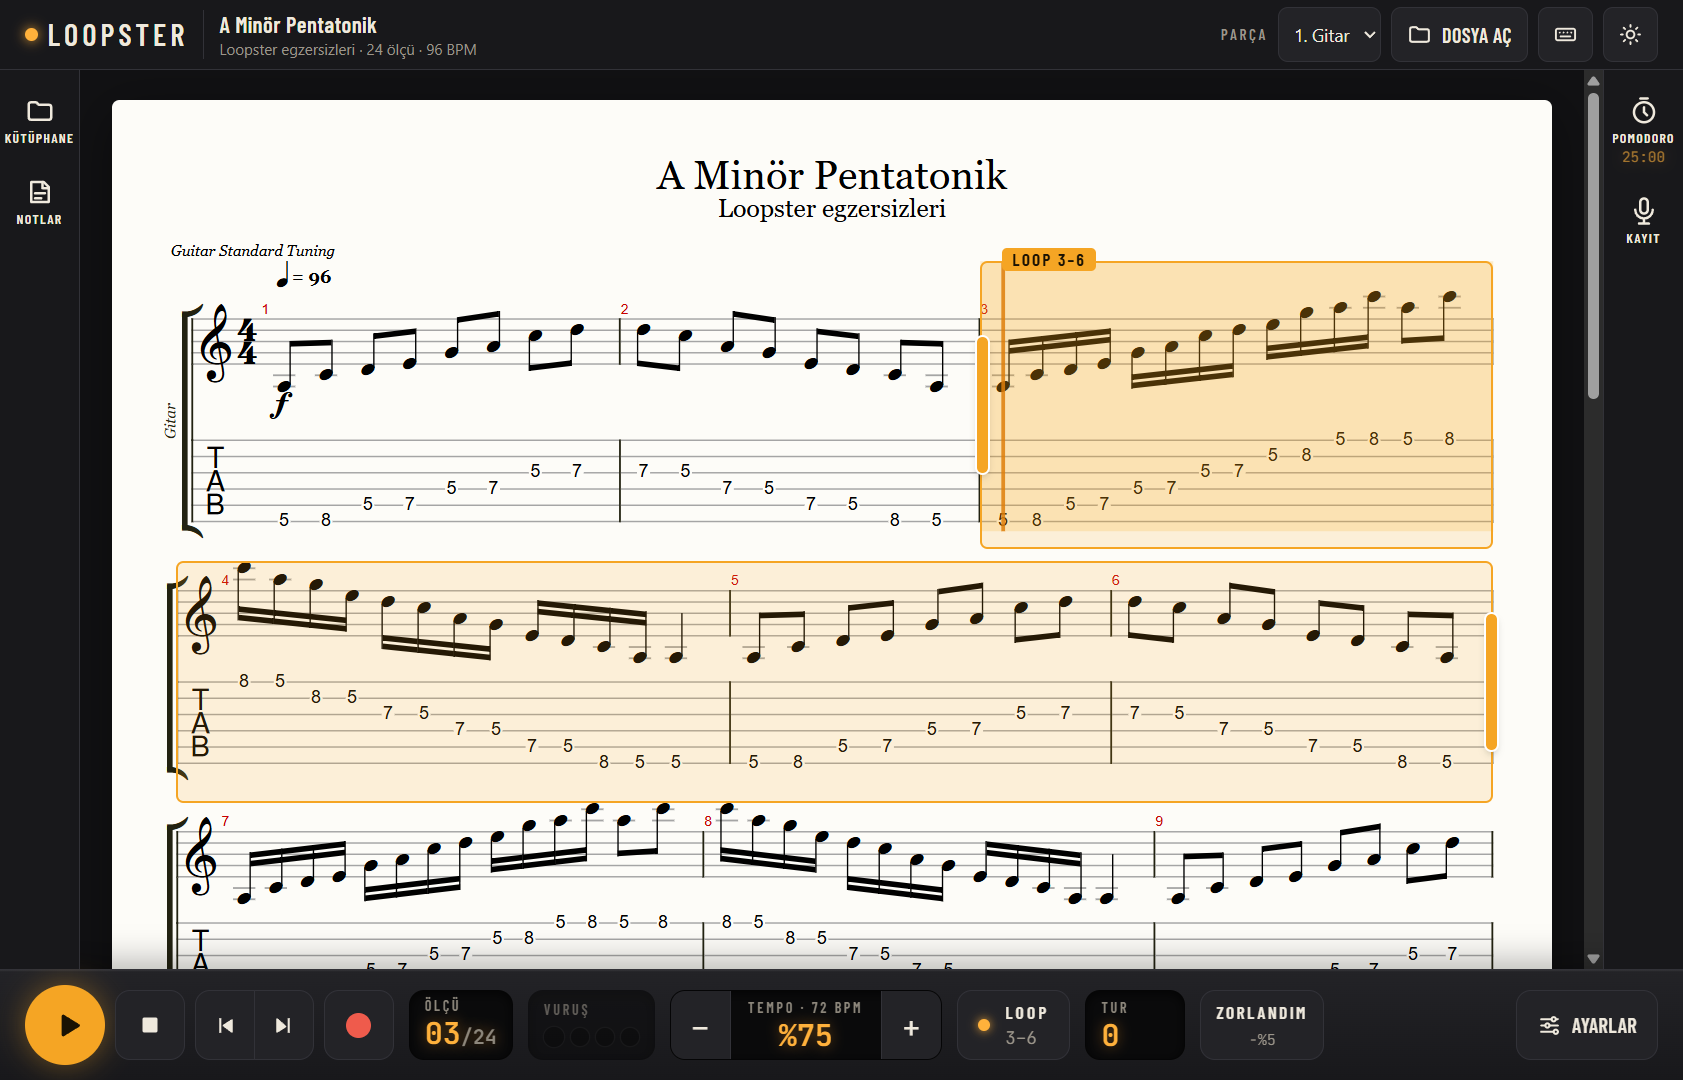
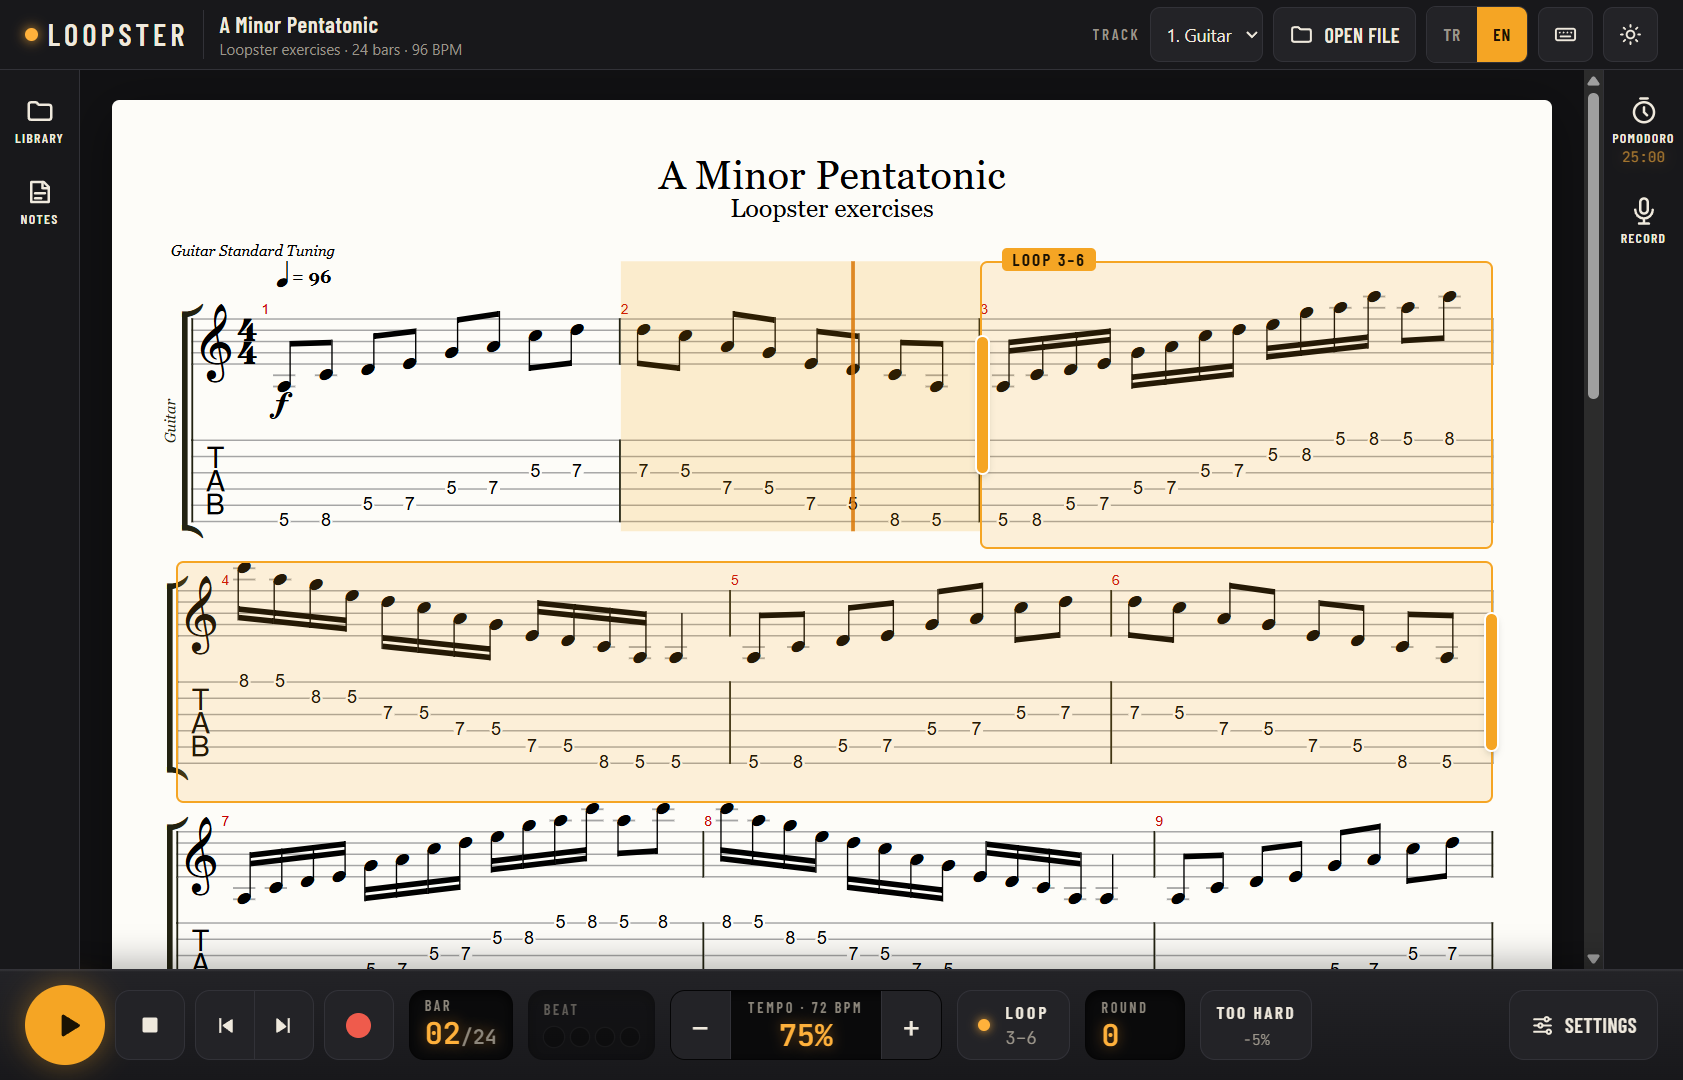
Release 1.1.0 with an English README
README.md is now English, with the Turkish text moved to README.tr.md and a language link at the top of both. Each has a screenshot in its own language, taken from a fresh app profile with an original exercise. Release notes for 1.1.0 in both languages.

diff --git a/README.md b/README.md
@@ -1,0 +1,171 @@
+<p align="center">
+  <img src="public/favicon.svg" width="96" height="96" alt="">
+</p>
+
+<h1 align="center">Loopster</h1>
+
+<p align="center">
+  A tab player and practice tool for Guitar Pro files (<code>.gp5</code>, <code>.gp4</code>, <code>.gp3</code>, <code>.gpx</code>, <code>.gp</code>).<br>
+  Loop the hard part, slow it down, play along with a metronome and speed up step by step.
+</p>
+
+<p align="center">
+  <a href="https://github.com/ErdemTortop/Loopster/releases/latest/download/Loopster-Setup.exe"><b>Download for Windows</b></a>
+  &nbsp;·&nbsp;
+  <a href="https://erdemtortop.github.io/Loopster/"><b>Try it in the browser</b></a>
+</p>
+
+<p align="center"><a href="README.tr.md">Türkçe</a> · <b>English</b></p>
+
+![Loopster: bars 3–6 looped, practised at 75% speed](docs/screenshot.png)
+
+## Installation
+
+1. Download [Loopster-Setup.exe](https://github.com/ErdemTortop/Loopster/releases/latest/download/Loopster-Setup.exe)
+   and run it. The link always gets the latest version; earlier versions and change notes are on the
+   [Releases](https://github.com/ErdemTortop/Loopster/releases) page.
+2. The installer is not code-signed, so Windows SmartScreen may warn you: choose **More info → Run anyway**.
+3. The installer associates `.gp`, `.gp3`, `.gp4`, `.gp5` and `.gpx` files with Loopster, so double-clicking one opens it.
+
+The **browser version** needs no installation and is meant for trying Loopster out. The exercise folder,
+double-click opening and recordings saved as files are only in the desktop app.
+
+## Usage
+
+1. Click **Open a Guitar Pro file**, or drop the file anywhere on the window.
+2. If the file has several instruments, pick one from the **Track** menu in the top bar.
+3. Press **Play**. The note being played is highlighted and the page scrolls along.
+4. Drag across the bars of the hard part: a loop envelope appears and playback repeats that range.
+
+The sound bank (SoundFont, about 1.3 MB) loads on first playback; its progress shows in the bottom bar.
+
+The interface is in English and Turkish. Loopster opens in your system language; switch with the **TR / EN**
+buttons in the top bar and your choice is remembered.
+
+Layout: **Library** (desktop) and **Notes** on the left, **Pomodoro** and **Record** on the right; click one to open its
+panel. Tempo, metronome, speed trainer, tracks and transpose live in the **Settings** (P) shelf above the bottom bar.
+
+### Practice tools
+
+- **Loop envelope:** a box over the notation, like in Guitar Pro, that always wraps on whole bars. Drag across bars
+  with the mouse to create it, and drag the handles on its edges to widen or narrow it (with a finger on tablets too).
+  Clicking a bar moves the cursor there.
+- **Tempo:** 25%–150% speed. The resulting BPM is shown; quick buttons for 50%, 75% and 100%.
+- **Speed trainer:** "Every N rounds, raise the speed by X%, and stay at Y% once reached." The round and the current
+  speed are shown while you play.
+- **Lead-in bar:** when the loop starts over, you come in from the bar before it; later rounds still wrap to the loop start.
+- **Too hard (Z):** one step slower, and the round counter starts over; the speed trainer counts again from the new speed.
+- **Metronome** with volume. Two sounds: **Punchy** (strong, woodblock-like; the default) and **Classic**
+  (alphaTab's own click). With **Count-in** on, one bar is counted before playback starts. The punchy sound also has an
+  **Offset** setting (±30 ms): if the click reaches you before or after the note, align it there; double-click resets it.
+- **Beat lights:** lights in the bottom bar that flash on every beat (brighter on the first beat of the bar). They work
+  with the metronome sound off too, and can be switched off in Settings.
+- **Tracks:** mute, solo and volume per instrument (0%–150% of the file's own mix; double-click for 100%).
+- **View:** "Tab only" hides the notation staff (parts without tablature, such as drums, keep their notation); the
+  notation size goes from 60% to 200%. Both are remembered.
+- **Transpose:** in semitone steps; only the sound shifts, the tab stays the same. Useful with a capo or a lower tuning.
+- **Song memory:** every song remembers its own tempo and loop, so it opens where you left off. A song you have never
+  practised opens at 100% with no loop.
+- **Notes:** a general note per song, plus notes tied to loop ranges (e.g. "33–40: third finger slips"). Clicking a loop
+  note opens that loop.
+- **Recording:** record yourself from the microphone (red button or R). Takes are listed per song with date, tempo and
+  loop. You can have the tab start playing when recording starts.
+- **Play along with the tab:** takes recorded while the tab was playing are played back together with the tab, with the
+  tempo, loop and speed changes they were recorded with. "Take ↔ Tab" sets the balance, "Nudge" corrects microphone latency.
+- **Pomodoro:** a focus / break timer (25 / 5 minutes by default). When focus time is up, playback stops, a chime sounds
+  and the break begins. Start it from the Pomodoro panel on the right, where the durations are set as well.
+
+Song memory and notes are keyed by the file's contents, so renaming a file does not lose them.
+
+### Desktop only
+
+- **Exercise folder:** pick a folder once, and every Guitar Pro file in it is listed in the **Library** panel on the
+  left, grouped by subfolder, with a search box; one click opens a song. The folder is remembered.
+- **Double-click to open:** double-clicking a Guitar Pro file opens it in Loopster; if Loopster is already running, the
+  file opens in that window instead of a new one.
+- **Recordings as files:** takes are written as ordinary audio files to a `Loopster Recordings` folder in Documents
+  (`Loopster Kayıtları` on Turkish systems), each next to a `.json` file with its tempo, loop and timing. The folder keeps
+  its name even if you switch the interface language later. "Show in folder" takes you to a file, and deleted takes go
+  to the Recycle Bin. In the browser version, takes are kept in browser storage.
+
+### Keyboard shortcuts
+
+| Key | Action |
+| --- | --- |
+| Space | Play / pause |
+| Esc | Stop (closes an open panel first) |
+| ← / → | One bar back / forward |
+| L | Loop on / off |
+| Z | Too hard: one step slower, round counter reset |
+| M | Metronome on / off |
+| − / + | Speed down / up by 5% |
+| R | Start / stop recording |
+| P | Show / hide the settings |
+| ? | Shortcut list |
+
+## Development
+
+Developed with Node.js 24 (20.19 or newer is required).
+
+```bash
+npm install
+npm run dev
+```
+
+To open it in a desktop window (Electron downloads itself on the first run):
+
+```bash
+npm run desktop
+```
+
+To work on the desktop app with hot reload, while `npm run dev` runs in another terminal:
+
+```bash
+npm run desktop:dev
+```
+
+To build the Windows installer locally (written to `release/`):
+
+```bash
+npm run desktop:build
+```
+
+Checks before pushing:
+
+```bash
+npm run lint
+npm run build
+```
+
+Interface text lives in `src/i18n/`: `tr.ts` defines every key and `en.ts` must provide the same ones, so a missing
+translation fails the type check.
+
+## Releases
+
+- Every push to `main` publishes the browser version to GitHub Pages ([pages.yml](.github/workflows/pages.yml)).
+- For a new desktop version, raise `version` in `package.json`, commit, then push a tag with the same number. GitHub
+  Actions builds the installer on Windows and attaches it to a release ([release.yml](.github/workflows/release.yml));
+  the job stops if the tag and the `package.json` version differ.
+
+```bash
+git tag v1.1.1
+git push origin v1.1.1
+```
+
+Working notes (in Turkish): the [project brief](docs/PROJE_BRIEF.md) and the [idea list](docs/FIKIRLER.md).
+
+## Built with
+
+- [alphaTab](https://alphatab.net): reading Guitar Pro files, rendering notation and tab, MIDI playback
+- React, TypeScript, Vite, Tailwind CSS
+- Electron and electron-builder (desktop app)
+
+## License
+
+MIT. See the [LICENSE](LICENSE) file for details.
+
+Third-party components shipped with the app come under their own licenses:
+
+- alphaTab: Mozilla Public License 2.0
+- Bravura music font (Steinberg Media Technologies): SIL Open Font License 1.1
+- Sonivox SoundFont (Sonic Network): Apache License 2.0

diff --git a/build/release-notes.md b/build/release-notes.md
@@ -1,23 +1,30 @@
-Loopster: Guitar Pro dosyaları için tab çalar ve pratik aracı.
+**Loopster 1.1.0 speaks English.** The whole interface is now available in English and Turkish. Loopster opens in
+your system language, and the **TR / EN** buttons in the top bar switch it at any time; your choice is remembered.
 
-1.0.1, 1.0.0'ın indirme sorununu düzeltir: o sürümün sayfasında kurulum dosyası yerine otomatik güncelleme için
-üretilen yardımcı dosyalar görünüyordu. Uygulamanın kendisi aynı.
+## Installation
 
-## Kurulum
+Download `Loopster-Setup.exe` below and run it. The installer is not code-signed, so Windows SmartScreen may warn
+you: choose **More info → Run anyway**. The installer associates Guitar Pro files with Loopster.
 
-Aşağıdaki `Loopster-Setup.exe` dosyasını indirip çalıştır. Kurulum dosyası imzalı olmadığı için Windows SmartScreen uyarı
-gösterebilir: **Daha fazla bilgi → Yine de çalıştır**. Kurulum Guitar Pro dosyalarını Loopster'a bağlar.
+## What's in it
 
-## Neler var
+- Open Guitar Pro files (`.gp`, `.gp3`, `.gp4`, `.gp5`, `.gpx`), see notation and tab, play them back
+- A loop envelope over the notation, 25%–150% tempo, a speed trainer, a lead-in bar and a "Too hard" button
+- Punchy and classic metronome, count-in, beat lights
+- Mute, solo and volume per track; transpose; tab-only view and zoom
+- Tempo and loop remembered per song; notes for songs and loop ranges
+- Microphone recording, and playing a take back together with the tab
+- Pomodoro timer
+- Desktop only: exercise folder library, double-click to open, takes saved as files in Documents
 
-- Guitar Pro dosyalarını (`.gp`, `.gp3`, `.gp4`, `.gp5`, `.gpx`) açma, nota ve tab gösterimi, çalma
-- Notanın üzerinde loop zarfı, %25–%150 tempo, kademeli hızlanma, hazırlık ölçüsü ve "Zorlandım" düğmesi
-- Tok ve klasik metronom, giriş sayımı, görsel vuruş
-- Parça bazında susturma, solo ve ses seviyesi; transpoze; sadece tab görünümü ve yakınlaştırma
-- Her parçanın tempo ve loop hafızası; parçaya ve loop aralıklarına bağlı notlar
-- Mikrofonla kayıt ve kaydı tab ile birlikte dinleme
-- Pomodoro sayacı
-- Yalnızca masaüstünde: egzersiz klasörü kütüphanesi, çift tıkla dosya açma ve kayıtların
-  `Belgeler/Loopster Kayıtları` klasörüne dosya olarak yazılması
+Try it without installing: https://erdemtortop.github.io/Loopster/
 
-Kurmadan denemek için tarayıcı sürümü: https://erdemtortop.github.io/Loopster/
+---
+
+**Loopster 1.1.0 artık İngilizce de.** Arayüzün tamamı Türkçe ve İngilizce. Loopster sistem dilinde açılır; üst
+çubuktaki **TR / EN** düğmeleriyle istediğin an değiştirirsin, seçimin hatırlanır.
+
+Aşağıdaki `Loopster-Setup.exe` dosyasını indirip çalıştır. Kurulum dosyası imzalı olmadığı için Windows SmartScreen
+uyarı gösterebilir: **Daha fazla bilgi → Yine de çalıştır**. Kurulum Guitar Pro dosyalarını Loopster'a bağlar.
+
+Mevcut kayıtların yeri değişmez: Belgeler altındaki `Loopster Kayıtları` klasörü kullanılmaya devam eder.

diff --git a/docs/FIKIRLER.md b/docs/FIKIRLER.md
@@ -24,6 +24,7 @@ Durumlar: **bekliyor** · **planlandı (Faz N)** · **yapıldı** · **vazgeçil
 | Parça başına loop ve tempo hafızası | yapıldı | Brief'teki Faz 4 kalıcılık maddesi; dosya parmak izine göre saklanır |
 | Kayıtları diske yazma (masaüstü) | yapıldı | Belgeler/Loopster Kayıtları klasörüne ses + .json; Klasörde göster, silme çöp kutusuna |
 | Çift tıkla dosya açma (masaüstü) | yapıldı | Kurulumda .gp/.gp3/.gp4/.gp5/.gpx Loopster'a bağlanır; uygulama açıksa dosya mevcut pencerede açılır |
+| İngilizce dil desteği | yapıldı | Arayüz Türkçe/İngilizce; sistem diline göre açılır, üst çubuktaki TR/EN ile değişir. İngilizce ana README + README.tr.md |
 | Uygulama olarak kurma (PWA) | vazgeçildi | Masaüstü uygulamasına geçildi; tarayıcı sürümü tek seferlik deneme olarak kalıyor |
 | Ses kaydetme ve kaydı dinleme | yapıldı | Mikrofonla kayıt; parça bazında liste, dinle / sil / indir; tarayıcıda saklanır |
 
